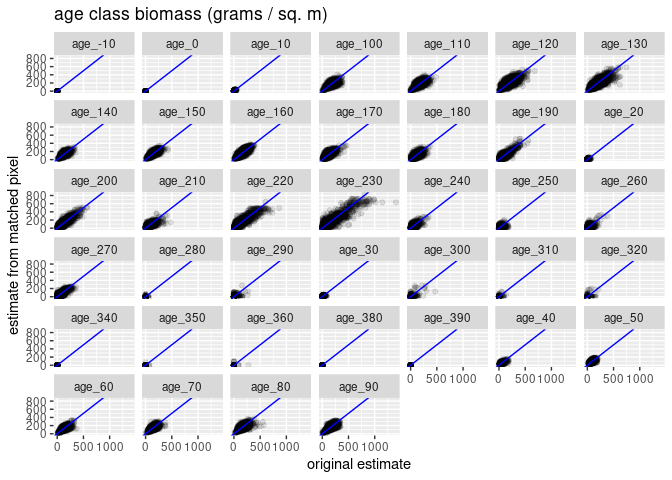
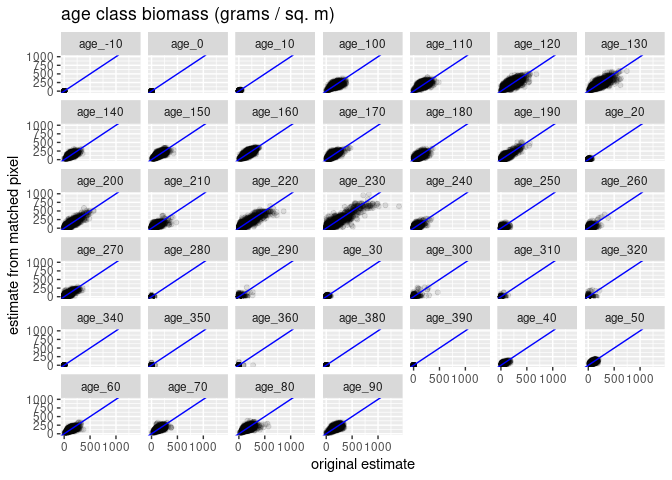
update readme
https://app.asana.com/0/97955622086363/1186861791723802

diff --git a/README.md b/README.md
@@ -1,18 +1,60 @@
 
 <!-- README.md is generated from README.Rmd. Please edit that file -->
 
+<style type="text/css">
+.scroll-200 {
+  max-height: 200px;
+  overflow-y: auto;
+  background-color: inherit;
+}
+</style>
+
 # backcaster
 
 The goal of backcaster is to recover treelists with pixel-level tallies
 of stems by species and diameter class from Landis model data structures
 (biomass by species and age class).
 
-TODO outline basic process
+### Processs
+
+The backcasting process can be boiled down to these steps:
+
+1.  Import pixel-level Landis summary tables derived from the
+    SilviaTerra basemap treelists to create the “lookup” table
+    (`lookup`).
+
+2.  Use kmeans clustering to assign each pixel to one of `n` clusters
+    based on distribution of biomass amongst species.
+
+3.  Import pixel-level Landis summary table for pixels that need to be
+    backcasted into treelist form (`new_data`).
+
+4.  Assign each pixel in `new_data` to one of the clusters identified in
+    step 1.
+
+5.  For each pixel in `new_data` use k-nearest neighbors process to
+    identify the most similar pixel from set of possibilities in the
+    same cluster in `lookup`.
+
+6.  Pull the tree records from the nearest-neighbor match pixels and
+    attribute them to the target pixels in `new_data`
+
+### Limitations
+
+The set of potential treelists (i.e. combinations of stems per species
+and diameter per pixel) that can be produced using this process is
+limited to the set present in the 2019 SilviaTerra Basemap treelist
+predictions. If the projected Landis biomass tables extends into age
+classes far beyond what was present in the 2019 tables the backcasting
+process will not find pixels that match exactly. The resulting treelists
+should resemble the species composition and structure of the input
+Landis summaries, but be aware that the range of age classes is limited
+to those present in the input data.
 
 ## Installation
 
 You can install the current version of backcaster from
-[GitHub](https://github.com/) with:
+[GitHub](https://github.com/SilviaTerra/backcaster) with:
 
 ``` r
 # install.packages("remotes")
@@ -34,14 +76,6 @@ data, obtaining back-casted treelists, and some diagnostics.
 ``` r
 library(backcaster)
 library(dplyr)
-#> 
-#> Attaching package: 'dplyr'
-#> The following objects are masked from 'package:stats':
-#> 
-#>     filter, lag
-#> The following objects are masked from 'package:base':
-#> 
-#>     intersect, setdiff, setequal, union
 library(ggplot2)
 library(tibble)
 ```
@@ -55,9 +89,6 @@ all_landis_files <- list.files(
   landis_dir,
   full.names = TRUE
 )
-
-glimpse(all_landis_files)
-#>  chr [1:2] "/home/henry/R/x86_64-pc-linux-gnu-library/4.0/backcaster/extdata/landis/10_10.csv.gz" ...
 ```
 
 For this example we will hold one of the Landis summary files out of the
@@ -86,8 +117,9 @@ methods of importing the files that result in a single large
 
 ``` r
 landis_raw <- do.call(rbind, lapply(training_landis_files, data.table::fread))
+```
 
-glimpse(landis_raw)
+``` scroll-200
 #> Rows: 332,177
 #> Columns: 5
 #> $ pix_ctr_wkt                  <chr> "POINT(-1771455 -462015)", "POINT(-17714…
@@ -104,8 +136,9 @@ biomass by age class for each pixel.
 
 ``` r
 lookup <- process_landis(landis_raw)
+```
 
-glimpse(lookup)
+``` scroll-200
 #> Rows: 2,459
 #> Columns: 74
 #> $ map_code                     <chr> "10_10_1", "10_10_10", "10_10_100", "10_…
@@ -193,8 +226,9 @@ imported in one fell swoop:
 new_data <- process_landis(
   data.table::fread(test_landis_file)
 )
+```
 
-glimpse(new_data)
+``` scroll-200
 #> Rows: 2,500
 #> Columns: 74
 #> $ map_code                     <chr> "10_11_1", "10_11_10", "10_11_100", "10_…
@@ -274,7 +308,7 @@ glimpse(new_data)
 ```
 
 The backcasting process can be executed with a call to the function
-`backcast_landis_to_treelists`.
+`backcast_landis_to_treelists`:
 
 ``` r
 backcasted <- backcast_landis_to_treelists(
@@ -289,8 +323,120 @@ backcasted <- backcast_landis_to_treelists(
 #> summarizing original vs matched Landis attributes
 ```
 
-<img src="man/figures/README-total_biomass_diagnostic-1.png" width="100%" />
+The output of that function contains the treelist (`backcasted$trees`)
+and some diagnostic tables (`backcasted$comp_stats`,
+`backcasted$comp_frame`). The treelist object contains one row per
+species (`common`) and diameter per pixel.
 
-<img src="man/figures/README-species_biomass_diagnostic-1.png" width="100%" />
+``` scroll-200
+#> Rows: 595,709
+#> Columns: 6
+#> $ pix_ctr_wkt <chr> "POINT(-1768035 -455625)", "POINT(-1768035 -455625)", "PO…
+#> $ map_code    <chr> "10_11_1889", "10_11_1889", "10_11_1889", "10_11_1889", "…
+#> $ pix_area_ha <dbl> 0.81, 0.81, 0.81, 0.81, 0.81, 0.81, 0.81, 0.81, 0.81, 0.8…
+#> $ common      <chr> "California black oak", "ponderosa pine", "California bla…
+#> $ diameter    <int> 2, 5, 5, 6, 7, 8, 9, 10, 11, 12, 13, 14, 15, 16, 24, 26, …
+#> $ nTrees      <dbl> 57.891, 5.572, 14.138, 10.092, 11.434, 1.531, 13.562, 10.…
+```
 
-<img src="man/figures/README-age_biomass_diagnostic-1.png" width="100%" />
+### Diagnostics
+
+The `backcasted` object also contains two tables that are useful for
+generating diagnostics for the accuracy of the matching process.
+Generally speaking, the pixel matching process will do a better job
+matching the values of the species and age classes with the largest
+share of biomass for each pixel.
+
+#### Total biomass
+
+<img src="man/figures/README-total_biomass_plot-1.png" width="80%" />
+
+|            attribute             | original mean | matched mean | RMSE  | RMSE % |
+| :------------------------------: | :-----------: | :----------: | :---: | :----: |
+| aboveground\_biomass\_g\_per\_m2 |     2852      |     2817     | 115.8 |   4    |
+
+#### Biomass by species
+
+<img src="man/figures/README-species_biomass_plot-1.png" width="80%" />
+
+|     species     | original mean | matched mean |  RMSE  | RMSE % |
+| :-------------: | :-----------: | :----------: | :----: | :----: |
+|    PseuMenz     |     1138      |     1154     | 97.36  |   9    |
+|    AbieConc     |      524      |    516.7     |  98.6  |   19   |
+|    CaloDecu     |     453.4     |    418.9     |  117   |   26   |
+|    PinuPond     |     362.5     |    369.3     | 91.74  |   25   |
+|    PinuLamb     |     152.8     |    156.8     | 73.84  |   48   |
+|    QuerKell     |     98.18     |    92.55     | 68.59  |   70   |
+|    QuerChry     |     39.03     |    31.67     | 56.45  |  145   |
+|    AcerMacr     |     17.25     |    14.96     | 42.41  |  246   |
+|    QuerWisl     |     8.485     |    7.701     |  27.4  |  323   |
+|    AbieMagn     |     7.563     |     5.31     | 28.57  |  378   |
+|    ArbuMenz     |     7.465     |    6.453     | 27.84  |  373   |
+|    PinuJeff     |     6.857     |    6.646     | 27.45  |  400   |
+|    LithDens     |     6.416     |    7.764     | 29.23  |  456   |
+|    AlnuRhom     |     5.756     |    4.851     | 22.65  |  394   |
+|  NOFX\_R\_SEED  |     5.039     |    4.617     | 7.912  |  157   |
+|    TsugMert     |     4.166     |    4.293     | 24.72  |  593   |
+|    PinuSabi     |     3.656     |    3.319     |  20.1  |  550   |
+|    CornNutt     |     2.504     |    2.248     | 6.248  |  249   |
+|   FX\_R\_SEED   |     1.543     |    1.571     |  3.43  |  222   |
+|    PinuMono     |     1.493     |    0.548     | 18.49  |  1239  |
+|    QuerDoug     |     1.346     |    1.065     | 9.993  |  743   |
+|    JuniOcci     |     1.308     |     1.33     | 12.26  |  937   |
+|    AescCali     |     1.019     |    0.8943    | 6.593  |  647   |
+|    PinuMont     |    0.8548     |    0.6364    | 6.336  |  741   |
+|    PopuTrem     |    0.6074     |    0.8791    | 8.343  |  1374  |
+| NOFX\_NOR\_SEED |    0.3187     |    0.3951    | 2.524  |  792   |
+|    PinuCont     |    0.2669     |    0.206     | 2.204  |  826   |
+|    QuerGarr     |    0.09528    |    0.1569    | 2.026  |  2127  |
+|    TaxuBrev     |    0.07983    |    0.1329    | 1.392  |  1744  |
+|    TorrCali     |    0.06021    |   0.04675    | 0.5542 |  920   |
+|    UmbeCali     |    0.0512     |   0.05752    | 0.9691 |  1893  |
+|    PinuAlbi     |    0.02423    |   0.006637   | 0.6391 |  2637  |
+|    PinuAtte     |    0.00294    |   0.03735    | 0.7897 | 26856  |
+
+#### Biomass by age class
+
+<img src="man/figures/README-age_biomass_plot-1.png" width="80%" />
+
+| age class | original mean | matched mean |   RMSE   | RMSE % |
+| :-------: | :-----------: | :----------: | :------: | :----: |
+| \-10 - 0  |   7.16e-05    |   0.00016    | 0.004836 |  6754  |
+|  0 - 10   |   0.006694    |   0.008042   | 0.09241  |  1381  |
+|  10 - 20  |      3.4      |    3.664     |  4.869   |  143   |
+|  20 - 30  |     3.871     |    4.044     |  7.185   |  186   |
+|  30 - 40  |     11.94     |    12.03     |  8.219   |   69   |
+|  40 - 50  |     46.69     |    47.65     |   17.2   |   37   |
+|  50 - 60  |     82.95     |    80.48     |  23.34   |   28   |
+|  60 - 70  |     136.6     |    131.6     |  37.06   |   27   |
+|  70 - 80  |     156.8     |    154.1     |  38.83   |   25   |
+|  80 - 90  |     164.3     |    157.3     |  47.27   |   29   |
+| 90 - 100  |     174.5     |    172.4     |  42.84   |   25   |
+| 100 - 110 |     182.8     |    174.9     |  49.82   |   27   |
+| 110 - 120 |     179.6     |    183.5     |  53.62   |   30   |
+| 120 - 130 |     202.3     |    209.4     |  67.22   |   33   |
+| 130 - 140 |      185      |     179      |  63.72   |   34   |
+| 140 - 150 |     133.7     |    132.6     |  37.09   |   28   |
+| 150 - 160 |     155.3     |    156.1     |  39.52   |   25   |
+| 160 - 170 |     180.2     |    183.8     |   44.5   |   25   |
+| 170 - 180 |     123.3     |    128.7     |  43.53   |   35   |
+| 180 - 190 |     100.6     |     95.1     |  44.06   |   44   |
+| 190 - 200 |     89.26     |    87.78     |  39.36   |   44   |
+| 200 - 210 |     101.4     |    102.6     |  42.35   |   42   |
+| 210 - 220 |     63.84     |    58.27     |  39.02   |   61   |
+| 220 - 230 |     105.1     |    103.6     |  52.29   |   50   |
+| 230 - 240 |     127.2     |    120.7     |  68.66   |   54   |
+| 240 - 250 |     35.08     |    35.88     |  32.97   |   94   |
+| 250 - 260 |     20.04     |    18.92     |  29.95   |  149   |
+| 260 - 270 |     27.75     |    28.08     |  30.37   |  109   |
+| 270 - 280 |     48.4      |    46.84     |  32.14   |   66   |
+| 280 - 290 |    0.2187     |    0.1254    |  3.502   |  1601  |
+| 290 - 300 |     2.635     |    2.055     |  16.08   |  610   |
+| 300 - 310 |     4.736     |    3.587     |  18.03   |  381   |
+| 310 - 320 |    0.6709     |    0.4459    |  6.229   |  929   |
+| 320 - 330 |     1.141     |    0.9559    |  12.31   |  1079  |
+| 340 - 350 |   0.009248    |   0.005255   | 0.08552  |  925   |
+| 350 - 360 |    0.1074     |   0.04024    |  2.728   |  2541  |
+| 360 - 370 |    0.2148     |    0.1824    |  7.476   |  3480  |
+| 380 - 390 |   0.0003472   |  0.0005916   | 0.02575  |  7415  |
+| 390 - 400 |   0.0003472   |      0       | 0.01228  |  3536  |
